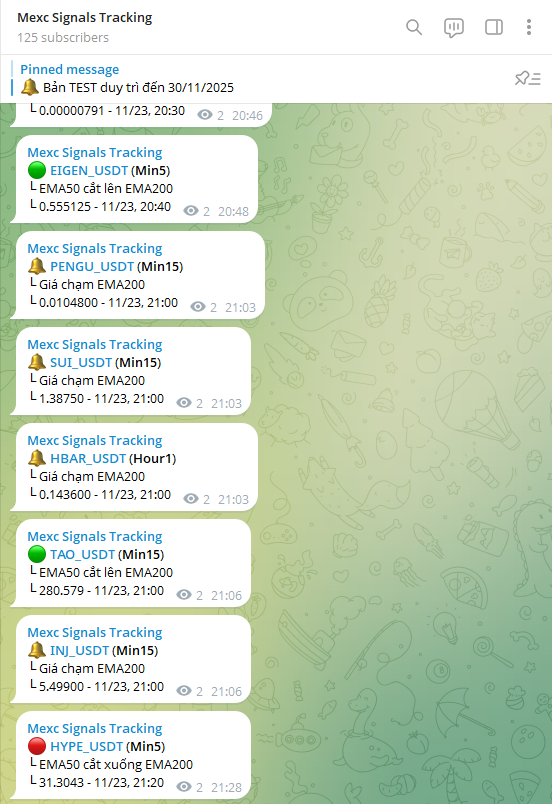
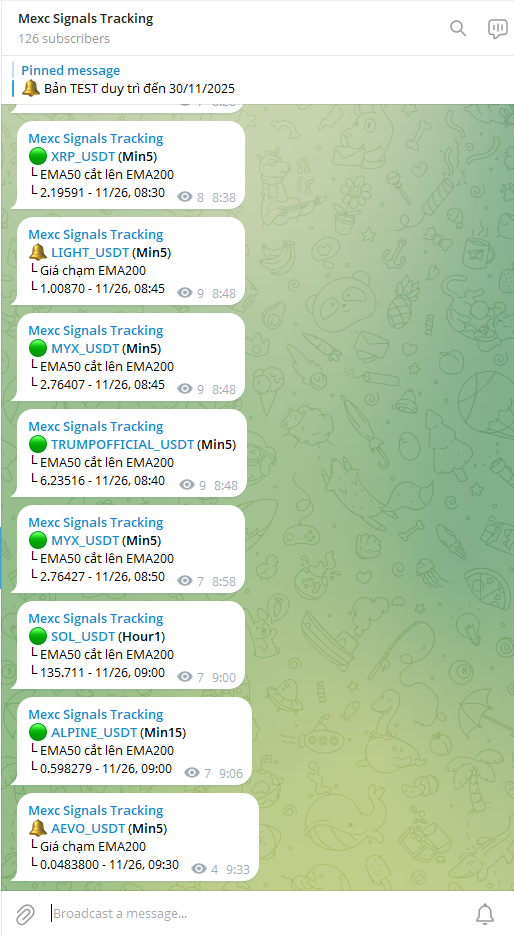
update

diff --git a/index.html b/index.html
@@ -256,6 +256,8 @@
             <h5 class="text-center mb-4 font-weight-bold" style="color: #2c3e50;">📸 HÌNH ẢNH MINH HỌA BOT ĐANG CHẠY</h5>
             <div class="demo-images">
                 <div class="demo-image-item">
+                    <img src="images/mexc-tracking1.PNG" alt="Bot MEXC Biến Động" onerror="this.src='https://via.placeholder.com/400x300/667eea/ffffff?text=Bot+MEXC+Biến+Động'">
+                    <br>
                     <img src="images/mexc-tracking.PNG" alt="Bot MEXC Biến Động" onerror="this.src='https://via.placeholder.com/400x300/667eea/ffffff?text=Bot+MEXC+Biến+Động'">
                     <p>Bot biến động MEXC</p>
                 </div>
@@ -264,12 +266,15 @@
                     <p>Bot biến động Binance</p>
                 </div>
                 <div class="demo-image-item">
-                    <img src="images/funding-rate.PNG" alt="Bot Funding Rate" onerror="this.src='https://via.placeholder.com/400x300/f5576c/ffffff?text=Bot+Funding+Rate'"><br>
+                    <img src="images/funding-rate.PNG" alt="Bot Funding Rate" onerror="this.src='https://via.placeholder.com/400x300/f5576c/ffffff?text=Bot+Funding+Rate'">
+                    <br>
                     <img src="images/binance-funding-ratee.PNG" alt="Bot Funding Rate" onerror="this.src='https://via.placeholder.com/400x300/f5576c/ffffff?text=Bot+Funding+Rate'">
                     <p>Bot Funding Rate</p>
                 </div>
                 <div class="demo-image-item">
                     <img src="images/binance-ema-signals.PNG" alt="Bot EMA Signals" onerror="this.src='https://via.placeholder.com/400x300/28a745/ffffff?text=Bot+EMA+Signals'">
+                    <br>
+                    <img src="images/mexc-ema-signal.PNG" alt="Bot EMA Signals" onerror="this.src='https://via.placeholder.com/400x300/28a745/ffffff?text=Bot+EMA+Signals'">
                     <p>Bot EMA Signals</p>
                 </div>
             </div>
